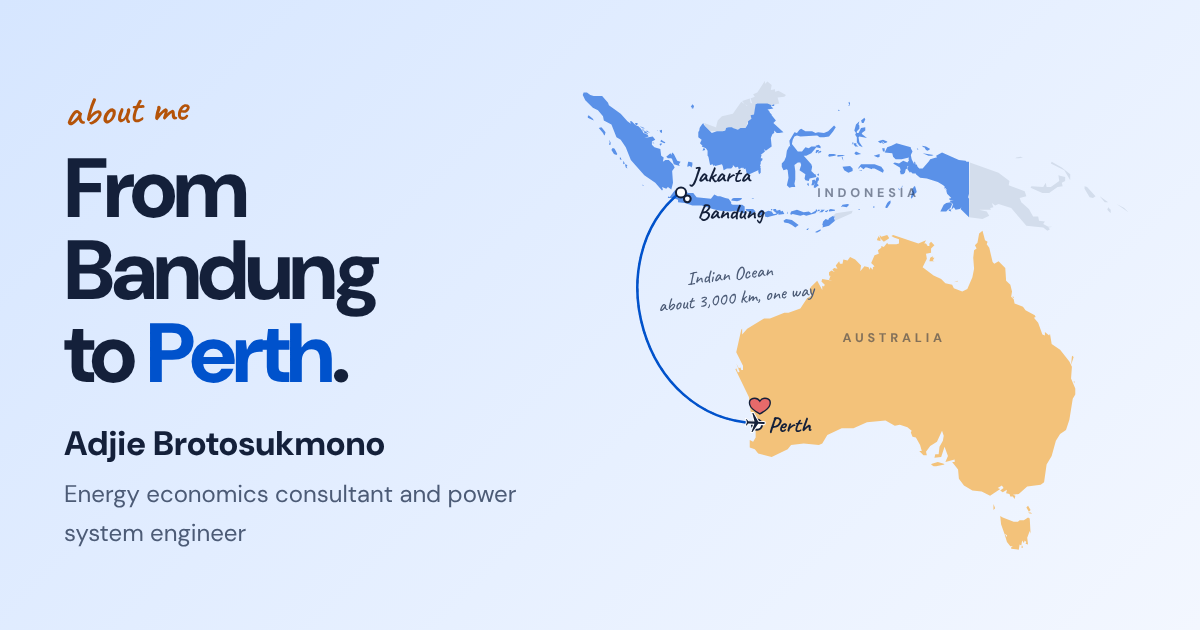
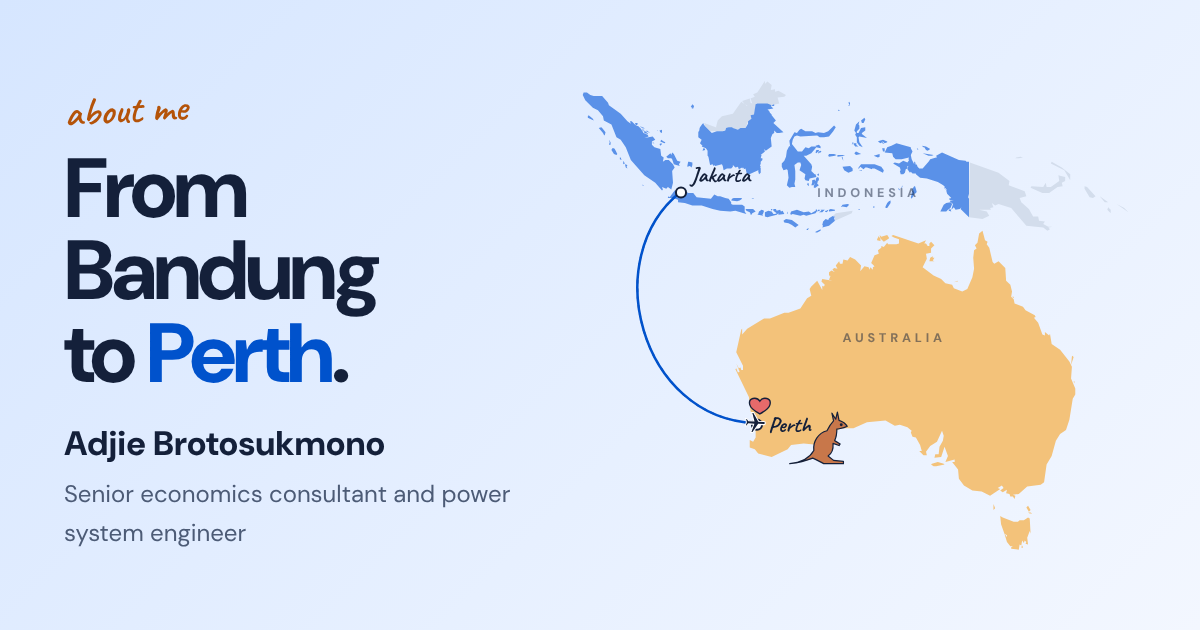
SEO/GEO: homepage intro, one job title, email shown, share images by day
- Homepage: a short section under the city says who Adjie is and links the
  newest posts and the main tools, so the page has crawlable text. The hero
  and the data-note jokes are unchanged.
- One wording for the role everywhere: "senior economics consultant and
  power system engineer" (meta, Open Graph, JSON-LD, hero roles, about lead,
  manifest), matching the Person node, llms.txt, the blog and the tools.
- Pages that show the email address are wrapped in Cloudflare email_off, so
  readers and crawlers see the address instead of /cdn-cgi/l/email-protection.
- _build/og.mjs draws the cards by day whatever the clock in Perth says;
  og.png and og-about.png redrawn with the new wording.
- robots.txt content signals and the IndexNow key file; sitemap dates bumped.

Claude-Session: https://claude.ai/code/session_01QpNtMiw8srGcrga3EFKi4F

diff --git a/index.html b/index.html
@@ -5,7 +5,7 @@
   <meta name="google-adsense-account" content="ca-pub-8730116101825381">
   <meta name="viewport" content="width=device-width, initial-scale=1, viewport-fit=cover">
   <title>Adjie Brotosukmono</title>
-  <meta name="description" content="Adjie Brotosukmono, power system engineer and energy economics consultant in Perth, Western Australia, at Mott MacDonald. Indonesian. My story, my blog and free tools.">
+  <meta name="description" content="Adjie Brotosukmono, Indonesian senior economics consultant and power system engineer at Mott MacDonald in Perth, Western Australia. My story, blog and tools.">
   <meta name="author" content="Adjie Brotosukmono">
   <meta name="robots" content="index, follow, max-image-preview:large, max-snippet:-1">
   <link rel="canonical" href="https://www.adjiebrotots.com/">
@@ -23,7 +23,7 @@
   <meta property="og:type" content="profile">
   <meta property="og:site_name" content="Adjie Brotosukmono">
   <meta property="og:title" content="Adjie Brotosukmono">
-  <meta property="og:description" content="Power system engineer, energy economics consultant and project manager in Perth, Western Australia. Indonesian, at Mott MacDonald.">
+  <meta property="og:description" content="Senior economics consultant, power system engineer and project manager in Perth, Western Australia. Indonesian, at Mott MacDonald.">
   <meta property="og:url" content="https://www.adjiebrotots.com/">
   <meta property="og:image" content="https://www.adjiebrotots.com/assets/img/og.png">
   <meta property="og:image:width" content="1200">
@@ -35,7 +35,7 @@
   <meta property="profile:username" content="adjiebrotot">
   <meta name="twitter:card" content="summary_large_image">
   <meta name="twitter:title" content="Adjie Brotosukmono">
-  <meta name="twitter:description" content="Power system engineer, energy economics consultant and project manager in Perth, Western Australia. Indonesian, at Mott MacDonald.">
+  <meta name="twitter:description" content="Senior economics consultant, power system engineer and project manager in Perth, Western Australia. Indonesian, at Mott MacDonald.">
   <meta name="twitter:image" content="https://www.adjiebrotots.com/assets/img/og.png">
 
   <link rel="preload" href="/assets/fonts/dm-sans.woff2" as="font" type="font/woff2" crossorigin>
@@ -469,6 +469,22 @@
       .plane { pointer-events: none; }
     }
 
+    /* ── Below the city: who Adjie is in a few lines, and where to start reading ── */
+    .more { background: var(--grass-2); color: var(--ink); padding: clamp(28px, 5vw, 48px) 16px 8px; }
+    .more-in { max-width: 1040px; margin: 0 auto; }
+    .more-lead { max-width: 720px; margin: 0 auto clamp(22px, 4vw, 34px); text-align: center; font-size: 1.0625rem; line-height: 1.6; }
+    .more-lead h2 { margin: 0 0 .4rem; font-size: clamp(1.35rem, 3vw, 1.7rem); line-height: 1.15; letter-spacing: -.02em; }
+    .more-lead p { margin: 0; }
+    .more-cols { display: grid; grid-template-columns: repeat(auto-fit, minmax(min(100%, 300px), 1fr)); gap: clamp(16px, 3vw, 28px); }
+    .more-card { background: var(--card); border: 2px solid var(--line); border-radius: 16px; box-shadow: var(--shadow); padding: 1rem 1.15rem 1.1rem; min-width: 0; }
+    .more-card h3 { margin: 0 0 .55rem; font-size: 1.1rem; }
+    .more-card ul { margin: 0; padding: 0; list-style: none; }
+    .more-card li + li { border-top: 1px dashed color-mix(in srgb, var(--line) 30%, transparent); }
+    .more-card a { display: block; padding: .5rem 0; text-decoration: none; font-weight: 700; line-height: 1.3; overflow-wrap: anywhere; }
+    .more-card a:hover, .more-card a:focus-visible { color: var(--brand); text-decoration: underline; text-underline-offset: 3px; }
+    .more-card small { display: block; color: var(--muted); font-weight: 500; font-size: .85rem; }
+    .more-card .all { font-weight: 800; color: var(--brand); }
+
     .ground {
       background: var(--grass-2); color: var(--ink);
       padding: 14px 16px 22px; text-align: center; font-size: .875rem;
@@ -719,7 +735,7 @@
         "@id": "https://www.adjiebrotots.com/#webpage",
         "url": "https://www.adjiebrotots.com/",
         "name": "Adjie Brotosukmono",
-        "description": "Adjie Brotosukmono, power system engineer and energy economics consultant in Perth, Western Australia, at Mott MacDonald. Indonesian. My story, my blog and free tools.",
+        "description": "Adjie Brotosukmono, Indonesian senior economics consultant and power system engineer at Mott MacDonald in Perth, Western Australia. My story, blog and tools.",
         "isPartOf": {
           "@id": "https://www.adjiebrotots.com/#website"
         },
@@ -763,6 +779,7 @@
   </script>
 </head>
 <body>
+<!--email_off--><!-- Cloudflare: show the email address as written, so readers and crawlers see it -->
   <div class="stage">
     <div class="sky" aria-hidden="true">
       <div class="stars"></div>
@@ -790,9 +807,9 @@
       <p class="formal hand">Adjie Brotosukmono,<br>if we're being formal<svg viewBox="0 0 46 30" aria-hidden="true"><path d="M40 4 C 30 18, 18 24, 6 22 M6 22 l7 -6 M6 22 l8 4"/></svg></p>
 
       <div class="roles">
-        <span class="vh">I work as an </span>
+        <span class="vh">I work as a </span>
         <ul>
-          <li><span>Energy Economics Consultant</span><span class="vh">, </span></li>
+          <li><span>Senior Economics Consultant</span><span class="vh">, </span></li>
           <li><span>Power System Engineer</span><span class="vh">, and </span></li>
           <li><span>Project Manager</span><span class="vh">.</span></li>
         </ul>
@@ -1474,6 +1491,36 @@
     </div>
   </div>
 
+  <section class="more" aria-labelledby="moreTitle">
+    <div class="more-in">
+      <div class="more-lead">
+        <h2 id="moreTitle">Energy economics, power systems and money</h2>
+        <p>I'm Adjie Brotosukmono, a senior economics consultant and power system engineer at Mott MacDonald in Perth, Western Australia. At work I model electricity markets, dispatch and grid connections for miners, system operators and renewable developers. Outside it, I write about personal finance and engineering, and build free calculators for the questions I keep asking myself.</p>
+      </div>
+      <div class="more-cols">
+        <div class="more-card">
+          <h3>From the blog</h3>
+          <ul>
+            <li><a href="https://blog.adjiebrotots.com/en/rent-vs-buy-calculator-explained/">Rent or buy a house? Why Perth says buy and Jakarta says rent<small>Finance · English</small></a></li>
+            <li><a href="https://blog.adjiebrotots.com/id/kabur-aja-dulu/" hreflang="id" lang="id">#KaburAjaDulu atau 'di sini murah': siapa yang menang di rekening tabungan?<small lang="en">Finance · Bahasa Indonesia</small></a></li>
+            <li><a href="https://blog.adjiebrotots.com/id/pajak-suami-istri-gabung-atau-pisah/" hreflang="id" lang="id">Lapor pajak suami istri: lebih untung gabung atau pisah SPT?<small lang="en">Finance · Bahasa Indonesia</small></a></li>
+            <li><a class="all" href="https://blog.adjiebrotots.com/">All posts →</a></li>
+          </ul>
+        </div>
+        <div class="more-card">
+          <h3>Free tools</h3>
+          <ul>
+            <li><a href="https://tool.adjiebrotots.com/rentvsownhouse/">Rent vs Own<small>Renting against buying a home, year by year</small></a></li>
+            <li><a href="https://tool.adjiebrotots.com/borrowingcapacity/">Borrowing Capacity Calculator<small>How much an Australian bank would lend you</small></a></li>
+            <li><a href="https://tool.adjiebrotots.com/capacity-expansion-planner/">Capacity Expansion Planner<small>The least-cost mix of solar, wind, gas and batteries</small></a></li>
+            <li><a href="https://tool.adjiebrotots.com/powerfactory-scripter/">PowerFactory Scripter<small>DIgSILENT PowerFactory Python scripts from blocks</small></a></li>
+            <li><a class="all" href="https://tool.adjiebrotots.com/">All tools →</a></li>
+          </ul>
+        </div>
+      </div>
+    </div>
+  </section>
+
   <footer class="ground">
     <nav aria-label="Elsewhere">
       <a href="/about/">About</a>
@@ -1807,5 +1854,6 @@
       }, 150);
     })();
   </script>
+<!--/email_off-->
 </body>
 </html>

diff --git a/about/index.html b/about/index.html
@@ -5,7 +5,7 @@
   <meta name="google-adsense-account" content="ca-pub-8730116101825381">
   <meta name="viewport" content="width=device-width, initial-scale=1, viewport-fit=cover">
   <title>Who is Adjie Brotosukmono</title>
-  <meta name="description" content="Adjie Brotosukmono is a power system engineer and energy economics consultant at Mott MacDonald in Perth. The story so far: ITB, edtech, BCA, Merz, Perth.">
+  <meta name="description" content="Adjie Brotosukmono is a senior economics consultant and power system engineer at Mott MacDonald in Perth. The story so far: ITB, edtech, BCA, Merz, Perth.">
   <meta name="author" content="Adjie Brotosukmono">
   <meta name="robots" content="index, follow, max-image-preview:large, max-snippet:-1">
   <link rel="canonical" href="https://www.adjiebrotots.com/about/">
@@ -25,7 +25,7 @@
   <meta property="og:type" content="profile">
   <meta property="og:site_name" content="Adjie Brotosukmono">
   <meta property="og:title" content="Who is Adjie Brotosukmono">
-  <meta property="og:description" content="Physics nerd, ITB engineer, online teacher, banker, power system engineer, and now an energy economics consultant in Perth. The story so far, in five stops.">
+  <meta property="og:description" content="Physics nerd, ITB engineer, online teacher, banker, power system engineer, and now a senior economics consultant in Perth. The story so far, in five stops.">
   <meta property="og:url" content="https://www.adjiebrotots.com/about/">
   <meta property="og:image" content="https://www.adjiebrotots.com/assets/img/og-about.png">
   <meta property="og:image:width" content="1200">
@@ -37,7 +37,7 @@
   <meta property="profile:username" content="adjiebrotot">
   <meta name="twitter:card" content="summary_large_image">
   <meta name="twitter:title" content="Who is Adjie Brotosukmono">
-  <meta name="twitter:description" content="Physics nerd, ITB engineer, online teacher, banker, power system engineer, and now an energy economics consultant in Perth.">
+  <meta name="twitter:description" content="Physics nerd, ITB engineer, online teacher, banker, power system engineer, and now a senior economics consultant in Perth.">
   <meta name="twitter:image" content="https://www.adjiebrotots.com/assets/img/og-about.png">
 
   <link rel="preload" href="/assets/fonts/dm-sans.woff2" as="font" type="font/woff2" crossorigin>
@@ -755,6 +755,7 @@
   </script>
 </head>
 <body>
+<!--email_off--><!-- Cloudflare: show the email address as written, so readers and crawlers see it -->
   <header class="wrap top">
     <a class="brand" href="/" aria-label="Adjie Brotosukmono, home">
       <img src="/logos/logo.svg" alt="" width="32" height="32">
@@ -777,7 +778,7 @@
       <div>
         <p class="eyebrow hand">about me, the long version</p>
         <h1 id="hello">I'm <span class="name">Adjie Brotosukmono</span>.</h1>
-        <p class="lead">I'm an <strong>energy economics consultant</strong> and <strong>power system engineer</strong> from Indonesia, now living in <strong>Perth, Western Australia</strong>. How does a physics nerd end up modelling power grids on the other side of the Indian Ocean? In five stops.</p>
+        <p class="lead">I'm a <strong>senior economics consultant</strong> and <strong>power system engineer</strong> from Indonesia, now living in <strong>Perth, Western Australia</strong>. How does a physics nerd end up modelling power grids on the other side of the Indian Ocean? In five stops.</p>
         <p class="nick hand">Friends call me <b>Adjie Brotot</b> or “Jitot”.</p>
       </div>
 
@@ -1541,5 +1542,6 @@
       addEventListener('load', rebuild);
     })();
   </script>
+<!--/email_off-->
 </body>
 </html>

diff --git a/id/about/index.html b/id/about/index.html
@@ -5,7 +5,7 @@
   <meta name="google-adsense-account" content="ca-pub-8730116101825381">
   <meta name="viewport" content="width=device-width, initial-scale=1, viewport-fit=cover">
   <title>Siapa Adjie Brotosukmono</title>
-  <meta name="description" content="Adjie Brotosukmono, power system engineer dan energy economics consultant di Mott MacDonald, Perth. Ceritanya: ITB, edtech, BCA, Merz, Perth.">
+  <meta name="description" content="Adjie Brotosukmono, senior economics consultant dan power system engineer di Mott MacDonald, Perth. Ceritanya: ITB, edtech, BCA, Merz, Perth.">
   <meta name="author" content="Adjie Brotosukmono">
   <meta name="robots" content="index, follow, max-image-preview:large, max-snippet:-1">
   <link rel="canonical" href="https://www.adjiebrotots.com/id/about/">
@@ -25,7 +25,7 @@
   <meta property="og:type" content="profile">
   <meta property="og:site_name" content="Adjie Brotosukmono">
   <meta property="og:title" content="Siapa Adjie Brotosukmono">
-  <meta property="og:description" content="Kutu fisika, insinyur ITB, guru online, bankir, power system engineer, kini energy economics consultant di Perth. Ceritanya, dalam lima perhentian.">
+  <meta property="og:description" content="Kutu fisika, insinyur ITB, guru online, bankir, power system engineer, kini senior economics consultant di Perth. Ceritanya, dalam lima perhentian.">
   <meta property="og:url" content="https://www.adjiebrotots.com/id/about/">
   <meta property="og:image" content="https://www.adjiebrotots.com/assets/img/og-about.png">
   <meta property="og:image:width" content="1200">
@@ -37,7 +37,7 @@
   <meta property="profile:username" content="adjiebrotot">
   <meta name="twitter:card" content="summary_large_image">
   <meta name="twitter:title" content="Siapa Adjie Brotosukmono">
-  <meta name="twitter:description" content="Kutu fisika, insinyur ITB, guru online, bankir, power system engineer, kini energy economics consultant di Perth.">
+  <meta name="twitter:description" content="Kutu fisika, insinyur ITB, guru online, bankir, power system engineer, kini senior economics consultant di Perth.">
   <meta name="twitter:image" content="https://www.adjiebrotots.com/assets/img/og-about.png">
 
   <link rel="preload" href="/assets/fonts/dm-sans.woff2" as="font" type="font/woff2" crossorigin>
@@ -755,6 +755,7 @@
   </script>
 </head>
 <body>
+<!--email_off--><!-- Cloudflare: show the email address as written, so readers and crawlers see it -->
   <header class="wrap top">
     <a class="brand" href="/" aria-label="Adjie Brotosukmono, beranda">
       <img src="/logos/logo.svg" alt="" width="32" height="32">
@@ -777,7 +778,7 @@
       <div>
         <p class="eyebrow hand">tentang saya, versi panjang</p>
         <h1 id="hello">Saya <span class="name">Adjie Brotosukmono</span>.</h1>
-        <p class="lead">Saya <strong>energy economics consultant</strong> dan <strong>power system engineer</strong> asal Indonesia, sekarang tinggal di <strong>Perth, Australia Barat</strong>. Bagaimana ceritanya seorang kutu fisika bisa memodelkan jaringan listrik di seberang Samudra Hindia? Lewat lima perhentian.</p>
+        <p class="lead">Saya <strong>senior economics consultant</strong> dan <strong>power system engineer</strong> asal Indonesia, sekarang tinggal di <strong>Perth, Australia Barat</strong>. Bagaimana ceritanya seorang kutu fisika bisa memodelkan jaringan listrik di seberang Samudra Hindia? Lewat lima perhentian.</p>
         <p class="nick hand">Teman-teman memanggil saya <b>Adjie Brotot</b> atau “Jitot”.</p>
       </div>
 
@@ -1541,5 +1542,6 @@
       addEventListener('load', rebuild);
     })();
   </script>
+<!--/email_off-->
 </body>
 </html>

diff --git a/_build/sitemap.py b/_build/sitemap.py
@@ -7,9 +7,9 @@ Bump a page's date in PAGES when its content changes.
 """
 SITE = 'https://www.adjiebrotots.com'
 PAGES = [
-    ('/', '2026-10-21', '1.0'),
-    ('/about/', '2026-10-24', '0.9'),
-    ('/id/about/', '2026-10-24', '0.9'),
+    ('/', '2026-10-27', '1.0'),
+    ('/about/', '2026-10-27', '0.9'),
+    ('/id/about/', '2026-10-27', '0.9'),
 ]
 
 rows = ['<?xml version="1.0" encoding="UTF-8"?>',
